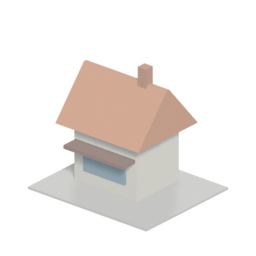
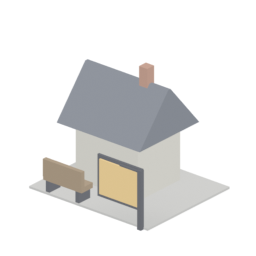
A real pub model, built with the model-smith/model-critic loop
The pub shipped with the data change was a stand-in: a copy of the
village shop's own glb, because generating real art needed Blender and
neither CI nor that session had it. This session has Blender 4.0.2
installed (plus numpy, EGL/mesa and xvfb for headless export and
render), so the pub gets an actual model now, built through Alex's
blender-model skill's own loop rather than written blind: build, render
the contact sheet, look at the pictures, name a specific defect in a
specific render, fix that part, repeat, then hand the finished contact
sheet (not the code) to a second, fresh pass for review before shipping.

Two real passes came out of it. First pass: the sign board started at
0.14x0.10, about the same size as the bench, and lost to both the bench
and the wall at the size the game actually renders it at — reviewed
blind against the brief and failed on exactly that. Second pass: nearly
doubled the board, moved it further off the wall on its own bracket
so its shadow clears the building mass, and swapped its colour from
CASK (too close in value to both the post and the wall) to WINDOW, the
warm gold already used for lit windows elsewhere in the file, which
holds contrast against both. It reads as a hanging pub sign now at
every distance the contact sheet checks, including the game's own
58-degree camera, not just close up.

Confirmed against `village_shop`'s own render, side by side: same
footprint (1.36 x 3.14 x 1.19 world units, unchanged from the placeholder
[…]

diff --git a/art/build_places.py b/art/build_places.py
@@ -633,14 +633,38 @@ def pub():
     p = pad('pup', 0.80, 0.66)
     p += moved(house('puh', w=0.42, d=0.34, wall=0.34, body=RENDER, roof=SLATE),
                -0.06, 0.06)
-    # The sign, on a post, rather than an awning.
-    p += [_paint(lib.box('pupost', (0.02, 0.02, 0.20), loc=(0.30, -0.26, 0.10)),
+    # The sign: a post with a hanging board on a bracket, well clear of the
+    # eaves so it silhouettes on its own rather than merging into the wall.
+    # Sized against the house — the shop's whole cue is its awning (0.40 wide,
+    # a good third of the wall), so the sign board has to be similarly bold or
+    # it reads as a fence post, not a pub.
+    p += [_paint(lib.box('pupost', (0.025, 0.025, 0.34), loc=(0.36, -0.34, 0.17)),
                  DARK, 'pupost_mat')]
-    p += [_paint(lib.box('pusign', (0.14, 0.02, 0.10), loc=(0.30, -0.26, 0.22)),
-                 CASK, 'pusign_mat')]
-    # A bench against the wall.
-    p += [_paint(lib.box('pubench', (0.20, 0.06, 0.05), loc=(-0.20, -0.20, 0.025)),
+    p += [_paint(lib.box('pubracket', (0.13, 0.018, 0.02), loc=(0.29, -0.34, 0.325)),
+                 DARK, 'pubracket_mat')]
+    # The board itself: bigger again — this was still bench-sized and lost the
+    # fight with the bench and the wall at the game's real render size. Nearly
+    # doubled in area and pushed further off the wall on its own bracket so its
+    # shadow falls clear of the building mass instead of pooling into it, and
+    # painted a warm gold (WINDOW) rather than CASK — CASK's value sits too
+    # close to both the dark post and the pale wall at a few pixels across;
+    # WINDOW reads as a hot, high-contrast shape against both.
+    p += [_paint(lib.box('pusign', (0.26, 0.022, 0.20), loc=(0.22, -0.34, 0.225)),
+                 WINDOW, 'pusign_mat')]
+    # A dark surround, sized strictly smaller than the board on every side, so
+    # it reads as a border rather than occluding it.
+    p += [_paint(lib.box('pusignframe', (0.30, 0.014, 0.24), loc=(0.22, -0.334, 0.225)),
+                 DARK, 'pusignframe_mat')]
+    # A bench outside, big enough to survive at the game's real size: a seat,
+    # a backrest and legs, standing clear of the wall rather than a slab lost
+    # against it.
+    p += [_paint(lib.box('pubenchseat', (0.26, 0.09, 0.03), loc=(-0.18, -0.28, 0.09)),
                  TIMBER, 'pubench_mat')]
+    p += [_paint(lib.box('pubenchback', (0.26, 0.025, 0.10), loc=(-0.18, -0.315, 0.145)),
+                 TIMBER, 'pubenchback_mat')]
+    for lx in (-0.28, -0.08):
+        p += [_paint(lib.box('pubenchleg%.2f' % lx, (0.025, 0.09, 0.09),
+                             loc=(lx, -0.28, 0.045)), DARK, 'pubenchleg_mat')]
     return p
 
 
